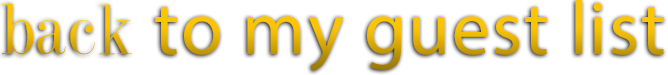
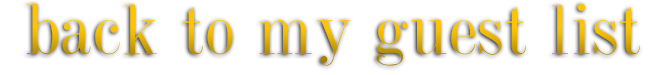
fixes

diff --git a/index.html b/index.html
@@ -349,11 +349,11 @@
                     <div class="center">
 
                         <div style="position:relative;">
-                            <ons-carousel id="life_images" class="carousel-detail" var="guestListCarousel" style="position:relative;border-top: 0.1em solid #fa00c2;border-bottom: 0.1em solid #fa00c2;" overscrollable="" auto-scroll=""></ons-carousel>
+                            <ons-carousel id="life_images" class="carousel-detail" var="lifetListCarousel" style="position:relative;border-top: 0.1em solid #fa00c2;border-bottom: 0.1em solid #fa00c2;" overscrollable="" auto-scroll=""></ons-carousel>
 
                             <div class="guesto-list-verlay overlay single" style="border-top: solid 0.1em #f701c4;border-bottom: solid 0.1em #f701c4;">
 
-                                <ul id="life_paginator" var="lifeCarouselPaginator" align="center" class="carousel-paginator"></ul>
+                                <ul id="life_paginator" align="center" class="carousel-paginator"></ul>
 
                                 <div align="center" class="guest-list-item-content">
                                     <p class="title-big">{{detail.name}}</p>
@@ -485,7 +485,7 @@
             <ons-navigator animation="slide" var="profileNavigator">
                 <ons-page ng-controller="ProfileController" var="promoPage" class="normal-page">
                     <ons-toolbar class="toolbar" style="border-bottom:0.1em solid #fa00c2;">
-                        <div class="center header-title" style="font-family: 'FuturaStd-Medium';font-size: 1em;position:relative;background:#000;"><div class="setup_my_data_title"></div>
+                        <div class="center header-title" style="font-family: 'FuturaStd-Medium';font-size: 1em;position:relative;background:#000;"><div class="translate setup_my_data_title"></div>
                             <div class="rightButton" onclick="profileNavigator.pushPage('profile_detail.html');"></div>
                         </div>
                     </ons-toolbar>
@@ -501,7 +501,7 @@
         <ons-template id="profile_detail.html">
             <ons-page ng-controller="ProfileDetailController" class="normal-page">
                 <ons-toolbar class="toolbar" style="border-bottom:0.1em solid #fa00c2;">
-                    <div class="center header-title" style="font-family: 'FuturaStd-Medium';font-size: 1em;position:relative;background:#000;"><div class="back_to_my_guest_list"></div>
+                    <div class="center header-title" style="font-family: 'FuturaStd-Medium';font-size: 1em;position:relative;background:#000;"><div class="translate back_to_my_guest_list"></div>
                         <div class="backButtonWhite" onclick="profileNavigator.popPage('profile_detail.html');"></div>
                     </div>
                 </ons-toolbar>

diff --git a/js/app.js b/js/app.js
@@ -207,6 +207,8 @@ showGuestInfo = function(index, event) {
 
 showInformation = function(event) {
 
+    isShowingInfo = false;
+
     ons.createDialog('guest_info.html').then(function(dialog) {
         guestInfoDialog.show();
     });
@@ -271,6 +273,14 @@ goToProfile = function() {
 
     mainTabBar.setActiveTab(4);
 };
+
+function translateImages() {
+    $('.translate').each(function(){
+
+        $(this).removeClass('en').removeClass('es').addClass(applicationLanguage);
+
+    });
+}
 
 
 module.controller('LanguageController', function($scope) {
@@ -347,6 +357,8 @@ module.controller('GuestController', function($scope) {
         if(selectedDate === '') {
             selectedDate = currentDate;
         }
+
+        verifyNotification();
 
         $scope.init = function(reset) {
 
@@ -797,15 +809,17 @@ module.controller('LifeInfoController', function($scope) {
         loadIntoTemplate('#life_images', pictures, 'life_images');
         loadIntoTemplate('#life_paginator', pictures, 'life_paginator');
 
+        //ons.compile($('#life_images')[0]);
+
         $('#life_paginator > li:nth-child(1)').addClass('selected');
         $scope.carouselPostChange = function() {
             $('#life_paginator > li').removeClass('selected');
-            $('#life_paginator > li:nth-child(' + (lifeCarouselPaginator.getActiveCarouselItemIndex()+1) + ')').addClass('selected');
+            $('#life_paginator > li:nth-child(' + (lifetListCarousel.getActiveCarouselItemIndex()+1) + ')').addClass('selected');
         };
 
         setTimeout(function(){
 
-            lifeCarouselPaginator.on('postchange', $scope.carouselPostChange);
+            lifetListCarousel.on('postchange', $scope.carouselPostChange);
 
         }, 1000);
 
@@ -952,6 +966,7 @@ module.controller('ProfileController', function($scope) {
             loadIntoTemplateSingle('#profile_list', {}, 'no_profile', getLabels());
         }, 200);
 
+        translateImages();
 
         getJsonP(api_url + 'getUserSessions/', function(data){
 
@@ -1021,6 +1036,8 @@ module.controller('ProfileDetailController', function($scope) {
         current_page = 'profile_detail.html';
 
         scopeProfileDetailController = $scope;
+
+        translateImages();
 
         if( (userData === undefined || userData === null) || (userData !== null && (userData.email === '' || userData.email === undefined)) )  {
 
@@ -1132,6 +1149,8 @@ module.controller('ProfileDetailController', function($scope) {
                 scopeProfileController.$apply(function(){
                     scopeProfileController.labels = getLabels();
                 });
+
+                translateImages();
 
             }, function(){
 

diff --git a/styles/app.css b/styles/app.css
@@ -147,7 +147,7 @@ input[type=checkbox] {
     padding: 0;
     line-height: 1em;
     color: #abaaaa;
-    padding:2em;
+    padding: 0em;
     text-align: justify;
 }
 
@@ -510,14 +510,14 @@ span.block {
 }
 
 .setup_my_data_title {
-    background: url('../img/setup_my_info.png') 0 0 no-repeat transparent;
+    background: url('../img/setup_my_info_header.png') 0 0 no-repeat transparent;
     background-repeat: no-repeat;
-    background-size: 59% auto;
+    background-size: 85% auto;
     height: 3em;
     text-align: center;
     width: 19em;
     margin: 0 auto;
-    background-position: center 7px;
+    background-position: center 15px;
     vertical-align: middle;
     display: table-cell;
 }
@@ -526,13 +526,24 @@ span.block {
     background: url('../img/back_to_my_guest_list_header.png') 0 0 no-repeat transparent;
     background-repeat: no-repeat;
     background-size: 70% auto;
-    height: 2em;
+    height: 3em;
     text-align: center;
     width: 19em;
     margin: 0 auto;
-    background-position: center 11px;
+    background-position: center 19px;
     vertical-align: middle;
     display: table-cell;
+}
+
+.setup_my_data_title.es {
+    background-image: url('../img/configurar_mis_datos_header.png');
+    background-size: 77% auto;
+    background-position: center 11px;
+}
+
+.back_to_my_guest_list.es {
+    background-image: url('../img/volver_a_mi_guest_list_header.png');
+    background-position: center 11px;
 }
 
 .buttonInfo {

diff --git a/js/notifications.js b/js/notifications.js
@@ -104,7 +104,7 @@ function showNotification(event, type){
     navigator.notification.alert(
         message,
         function(){
-            redirectToPage(seccion, seccion_id);
+            (seccion, seccion_id);
         },
         getLabel("alert"),
         getLabel("accept")
@@ -140,7 +140,11 @@ function redirectToPage(seccion, id){
     }
 
     if(isShowingForm === true) {
-        scopeGuestListFormController.closeForm();
+        closeForm();
+    }
+
+    if(isShowingInfo === true) {
+        closeInfo();
     }
 
     if(active_tab !== -1) {
@@ -165,6 +169,8 @@ function redirectToPage(seccion, id){
 
             splash.popPage('guest_info.html');
         }
+
+        current_page = '';
 
 
         mainTabBar.setActiveTab(active_tab);
@@ -207,9 +213,7 @@ function redirectToSection(scope, section) {
 
         index=-1;
 
-        console.log(section + '_list');
-
-        list = lists[section + '_list'];
+        list = lists[section];
 
         console.log(list);
 
@@ -230,5 +234,15 @@ function redirectToSection(scope, section) {
         }
 
         current_seccion_id = '';
+    }
+}
+
+function verifyNotification(){
+    //si tiene una notificacion pendiente la mostramos
+    if(HAVE_NOTIFICATION){
+        setTimeout(function(){
+            showNotification(EVENT, TYPE_NOTIFICATION);
+        },800);
+        HAVE_NOTIFICATION = false;
     }
 }

diff --git a/js/constants.js b/js/constants.js
@@ -28,3 +28,8 @@ try {
 }
 
 var DEVICE_UUID = (localStorage.getItem("uuid") !== null || localStorage.getItem("uuid") !== undefined) ? JSON.parse(localStorage.getItem("uuid")) : 0;
+
+
+var HAVE_NOTIFICATION = false;
+var TYPE_NOTIFICATION = '';
+var EVENT;
